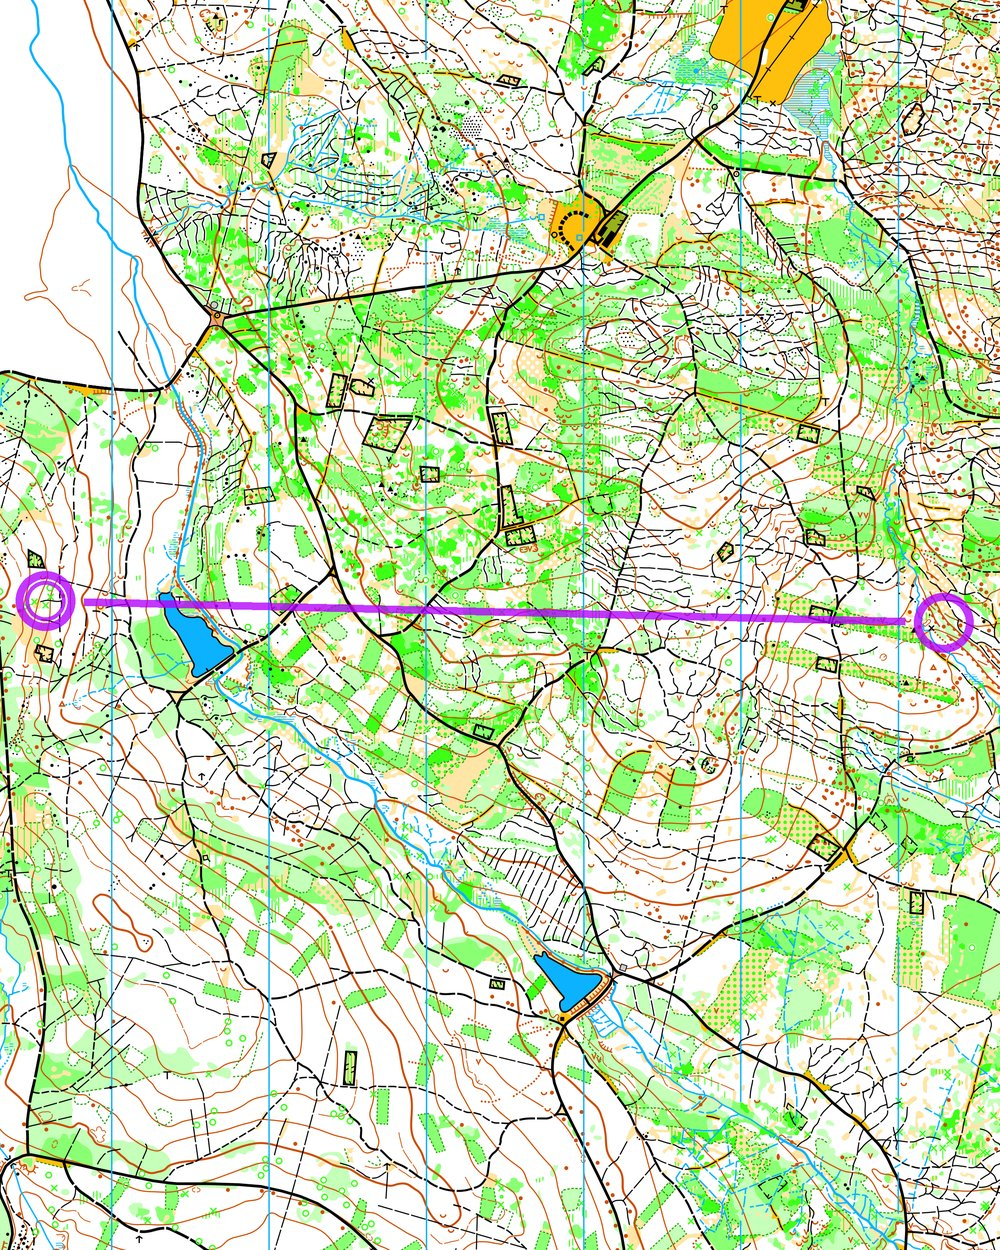
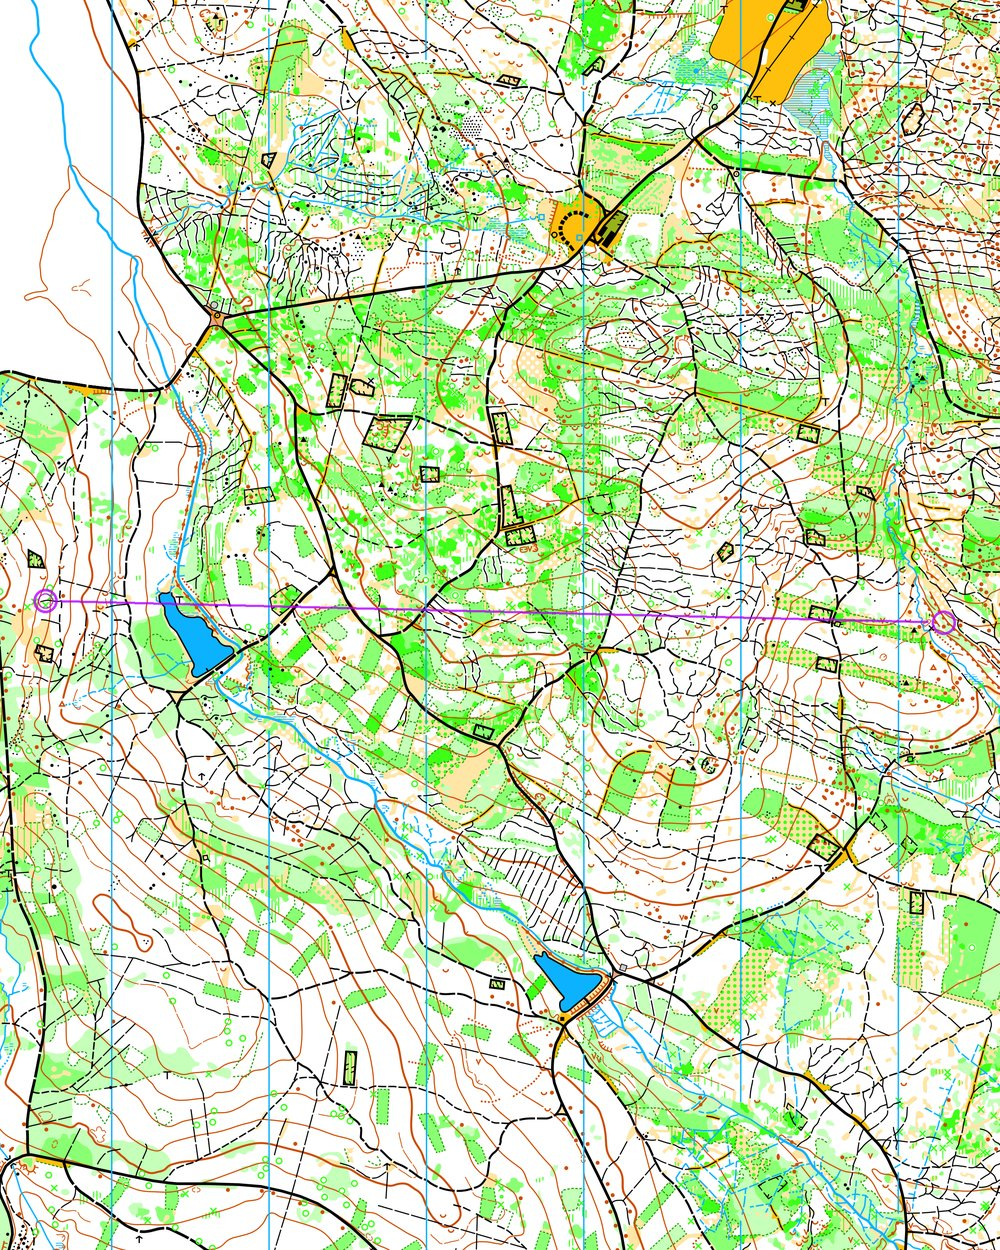
chore: uprava rychlosti animace a zmenseni tloustky spojnic pro vysoky zoom

Changed region(s): [[0.0, 0.4368, 0.992, 0.5304]]

diff --git a/export/style.css b/export/style.css
@@ -320,7 +320,7 @@ html, body {
 }
 
 .animated-map-drift {
-  animation: mapDrift 25s ease-in-out infinite alternate;
+  animation: mapDrift 60s ease-in-out infinite alternate;
   transform-origin: center center;
   will-change: transform;
 }
@@ -333,7 +333,7 @@ html, body {
 }
 
 .animated-route-follow {
-  animation: routeFollow 12s ease-in-out infinite alternate;
+  animation: routeFollow 40s ease-in-out infinite alternate;
   will-change: transform, transform-origin;
 }
 

diff --git a/14_export_thumbnails.py b/14_export_thumbnails.py
@@ -201,8 +201,8 @@ def generate_thumbnails():
         # --- Kresleni postupu (spojnice a kolecka) ---
         overlay = Image.new("RGBA", cropped.size, (255, 255, 255, 0))
         draw = ImageDraw.Draw(overlay)
-        line_w = max(4, int(cropped.width * 0.008))
-        radius = max(10, int(cropped.width * 0.03))
+        line_w = max(2, int(cropped.width * 0.003))
+        radius = max(5, int(cropped.width * 0.012))
         color = (179, 0, 255, 200)  # OCAD fialova, polopruhledna
         
         def pt(c):
